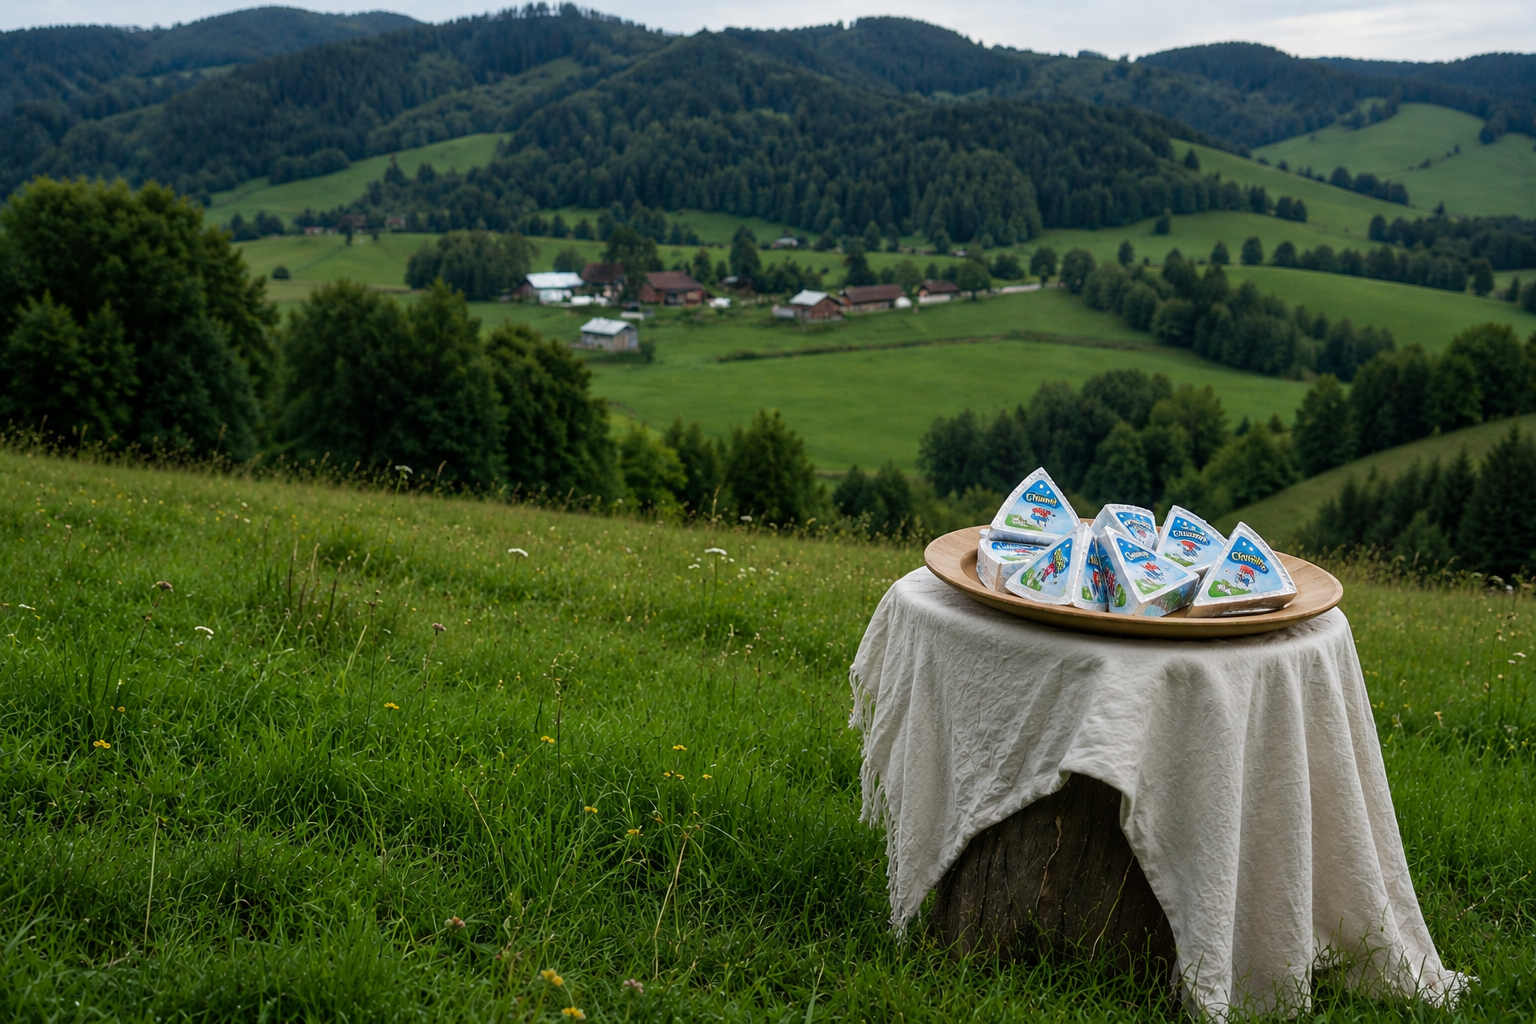
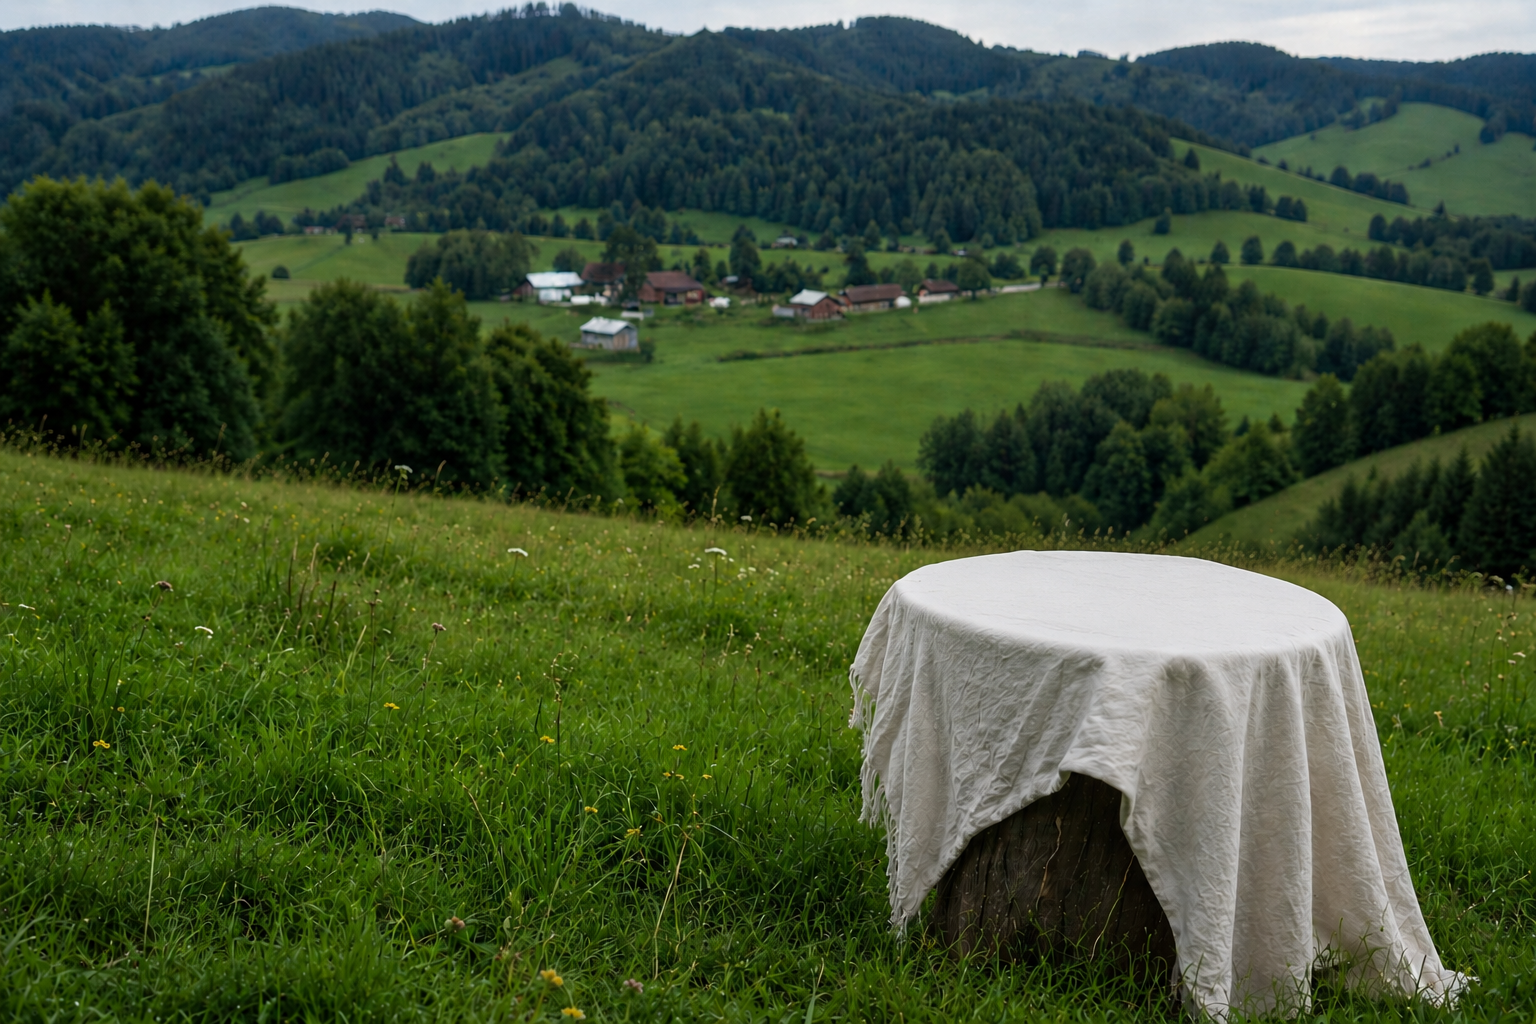
feat: enhance product data structure with IDs and improve SEO metadata across multiple pages

diff --git a/src/pages/Home.tsx b/src/pages/Home.tsx
@@ -16,10 +16,12 @@ import factoryImg from "../assets/factory.jpg";
 import exportImg from "../assets/export-ship.jpg";
 import products from "../Data/Products";
 
+
 const Home = () => {
   const { t, i18n } = useTranslation();
 
   const isRTL = i18n.language === "ar";
+
 
   return (
     <div className={`home ${isRTL ? "rtl" : "ltr"}`}>
@@ -27,22 +29,58 @@ const Home = () => {
 
       <NavBar />
       <Helmet>
-        <title>Alsafwa Factory</title>
+        <html lang={isRTL ? "ar" : "en"} />
+
+        <title>
+          Alsafwa Factory | Premium Cheese Manufacturer
+        </title>
 
         <meta
           name="description"
-          content="Premium farm-fresh cheese manufacturer in Egypt."
+          content="Alsafwa Factory is a premium Egyptian cheese manufacturer producing high-quality dairy products for local and international markets."
         />
 
-        <meta property="og:site_name" content="Alsafwa Factory" />
+        <meta
+          name="keywords"
+          content="cheese, dairy, egypt, factory, mozzarella, cheddar, feta, export"
+        />
+
+        <meta name="author" content="Alsafwa Factory" />
+
+        <link
+          rel="canonical"
+          href="https://alsafwafactory.vercel.app/"
+        />
+
+        <meta property="og:type" content="website" />
+        <meta
+          property="og:title"
+          content="Alsafwa Factory"
+        />
+        <meta
+          property="og:description"
+          content="Premium Egyptian cheese manufacturer."
+        />
+        <meta
+          property="og:image"
+          content="https://alsafwafactory.vercel.app/logo.png"
+        />
+        <meta
+          property="og:url"
+          content="https://alsafwafactory.vercel.app/"
+        />
+        <meta
+          property="og:site_name"
+          content="Alsafwa Factory"
+        />
 
         <script type="application/ld+json">
           {JSON.stringify({
             "@context": "https://schema.org",
-            "@type": "WebSite",
-            url: "https://alsafwafactory.vercel.app/",
+            "@type": "Organization",
             name: "Alsafwa Factory",
-            alternateName: "AL SAFWA FACTORY"
+            url: "https://alsafwafactory.vercel.app",
+            logo: "https://alsafwafactory.vercel.app/logo.png",
           })}
         </script>
       </Helmet>
@@ -111,7 +149,7 @@ const Home = () => {
                 </div>
 
                 <Link
-                  to="/products"
+                  to={`/products?product=${product.id}`}
                   className="view-details"
                 >
                   {t("viewdetails")}

diff --git a/src/components/Footer.tsx b/src/components/Footer.tsx
@@ -1,7 +1,7 @@
 import { useTranslation } from "react-i18next";
 import { Link } from "react-router-dom";
-import logo from '../assets/logo.png'
-import './styles/Footer.css'
+import logo from "../assets/logo.png";
+import "./styles/Footer.css";
 const Footer = () => {
   const { t } = useTranslation();
 
@@ -25,22 +25,19 @@ const Footer = () => {
 
         <div className="footer-col">
           <h4>{t("footerFollow")}</h4>
-          <a href="#">{t("facebook")}</a>
-          <a href="#">{t("instagram")}</a>
-          <a href="#">{t("twitter")}</a>
-          <a href="#">{t("threads")}</a>
+          <a target="_blank" href="https://www.facebook.com/share/1jgNPwnEZE/?mibextid=wwXIfr">{t("facebook")}</a>
         </div>
 
         <div className="footer-col">
           <h4>{t("footerContact")}</h4>
-          <a href="#">{t("whatsapp")}</a>
-          <a href="#">{t("sendNow")}</a>
-        </div>
-
-        <div className="footer-col">
-          <h4>{t("footerJoin")}</h4>
-          <a href="#">{t("partners")}</a>
-          <a href="#">{t("joinNow")}</a>
+          <a
+            href="https://wa.me/201023236000"
+            target="_blank"
+            rel="noopener noreferrer"
+          >
+            {t("whatsapp")}
+          </a>
+          <a href="/contact">{t("sendNow")}</a>
         </div>
       </div>
 
@@ -53,4 +50,4 @@ const Footer = () => {
   );
 };
 
-export default Footer
+export default Footer;

diff --git a/src/pages/Products.tsx b/src/pages/Products.tsx
@@ -4,6 +4,7 @@ import Footer from "../components/Footer";
 import LangBtn from "../components/LangBtn";
 import NavBar from "../components/NavBar";
 import "./styles/Products.css";
+import { useSearchParams } from "react-router-dom";
 
 import { Helmet } from "react-helmet-async";
 
@@ -12,7 +13,17 @@ import products from "../Data/Products";
 const Products = () => {
   const { t } = useTranslation();
 
-  const [selectedIndex, setSelectedIndex] = useState(0);
+  const [searchParams] = useSearchParams();
+
+  const productId = Number(searchParams.get("product"));
+
+  const initialIndex = products.findIndex(
+    (p) => p.id === productId,
+  );
+
+  const [selectedIndex, setSelectedIndex] = useState(
+    initialIndex >= 0 ? initialIndex : 0,
+  );
 
   const [menuOpen, setMenuOpen] = useState(false);
 
@@ -21,14 +32,16 @@ const Products = () => {
       <LangBtn />
       <NavBar />
       <Helmet>
-        <title>About | Alsafwa Factory</title>
+        <title>Products | Alsafwa Factory</title>
+
         <meta
           name="description"
-          content="Learn more about Alsafwa Factory."
+          content="Explore Alsafwa Factory's premium cheese products."
         />
+
         <link
           rel="canonical"
-          href="https://alsafwafactory.vercel.app/about"
+          href="https://alsafwafactory.vercel.app/products"
         />
       </Helmet>
 

diff --git a/src/Data/Products.ts b/src/Data/Products.ts
@@ -6,41 +6,45 @@ import p5 from "../assets/products/5.png";
 import p6 from "../assets/products/6.png";
 
 export interface Product {
+  id: number;
   productImg: string;
   productName: string;
   productDesc: string;
 }
 
-const products :Product[]= [
-
+const products: Product[] = [
   {
+    id: 1,
     productImg: p6,
-    
     productName: "Natural Triangle",
     productDesc: "Natural Triangle desc",
   },
   {
+    id: 2,
     productImg: p1,
-    
     productName: "Flamenco Triangle",
     productDesc: "Flamenco Triangle desc",
   },
   {
+    id: 3,
     productImg: p2,
     productName: "Processed Cheddar",
     productDesc: "Processed Cheddar desc",
   },
   {
+    id: 4,
     productImg: p3,
     productName: "Creamy Block",
     productDesc: "Creamy Block desc",
   },
   {
+    id: 5,
     productImg: p4,
     productName: "Natural Block",
     productDesc: "Natural Block desc",
   },
   {
+    id: 6,
     productImg: p5,
     productName: "Flamenco Cheese",
     productDesc: "Flamenco Cheese desc",

diff --git a/src/pages/Branches.tsx b/src/pages/Branches.tsx
@@ -9,7 +9,7 @@ const Branches = () => {
     <>
       <NavBar />
       <Helmet>
-        <title>About | Alsafwa Factory</title>
+        <title>Branches | Alsafwa Factory</title>
         <meta
           name="description"
           content="Learn more about Alsafwa Factory."

diff --git a/src/pages/Contact.tsx b/src/pages/Contact.tsx
@@ -31,7 +31,7 @@ const Contact = () => {
       <NavBar />
       <LangBtn />
       <Helmet>
-        <title>About | Alsafwa Factory</title>
+        <title>Contact | Alsafwa Factory</title>
         <meta
           name="description"
           content="Learn more about Alsafwa Factory."

diff --git a/src/pages/Export.tsx b/src/pages/Export.tsx
@@ -27,7 +27,7 @@ const Export = () => {
       <NavBar />
       <LangBtn />
       <Helmet>
-        <title>About | Alsafwa Factory</title>
+        <title>Export | Alsafwa Factory</title>
         <meta
           name="description"
           content="Learn more about Alsafwa Factory."